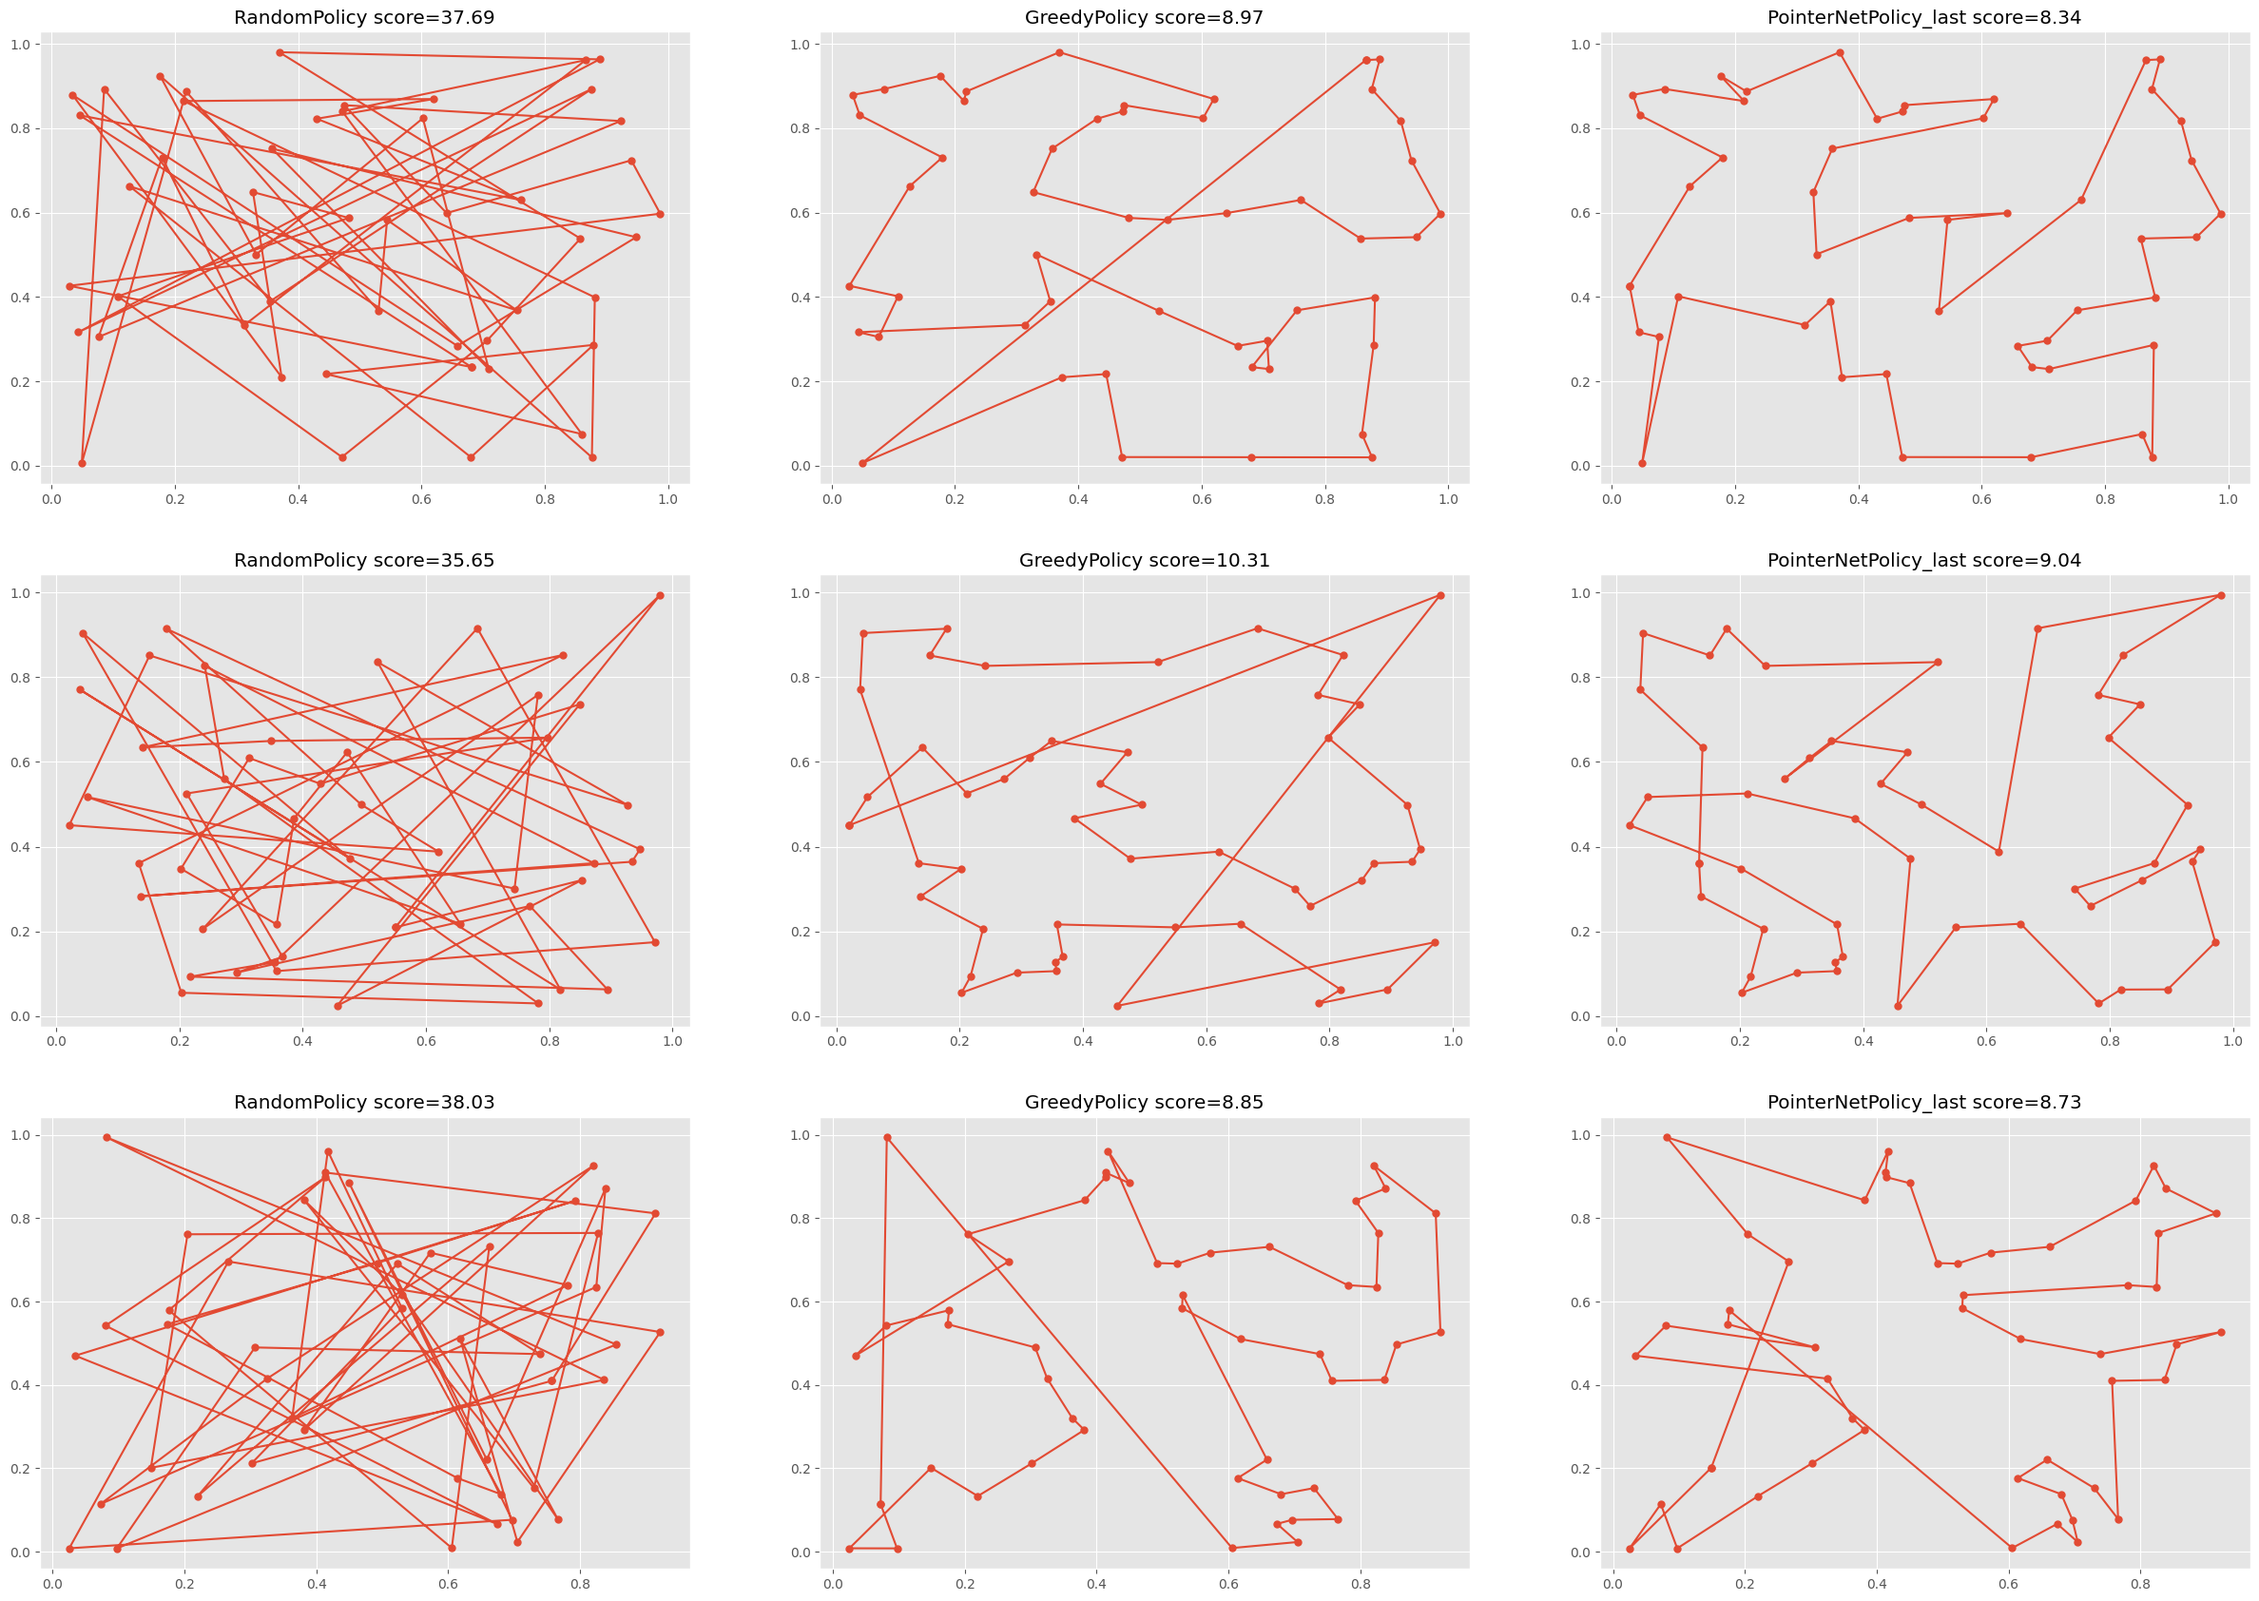
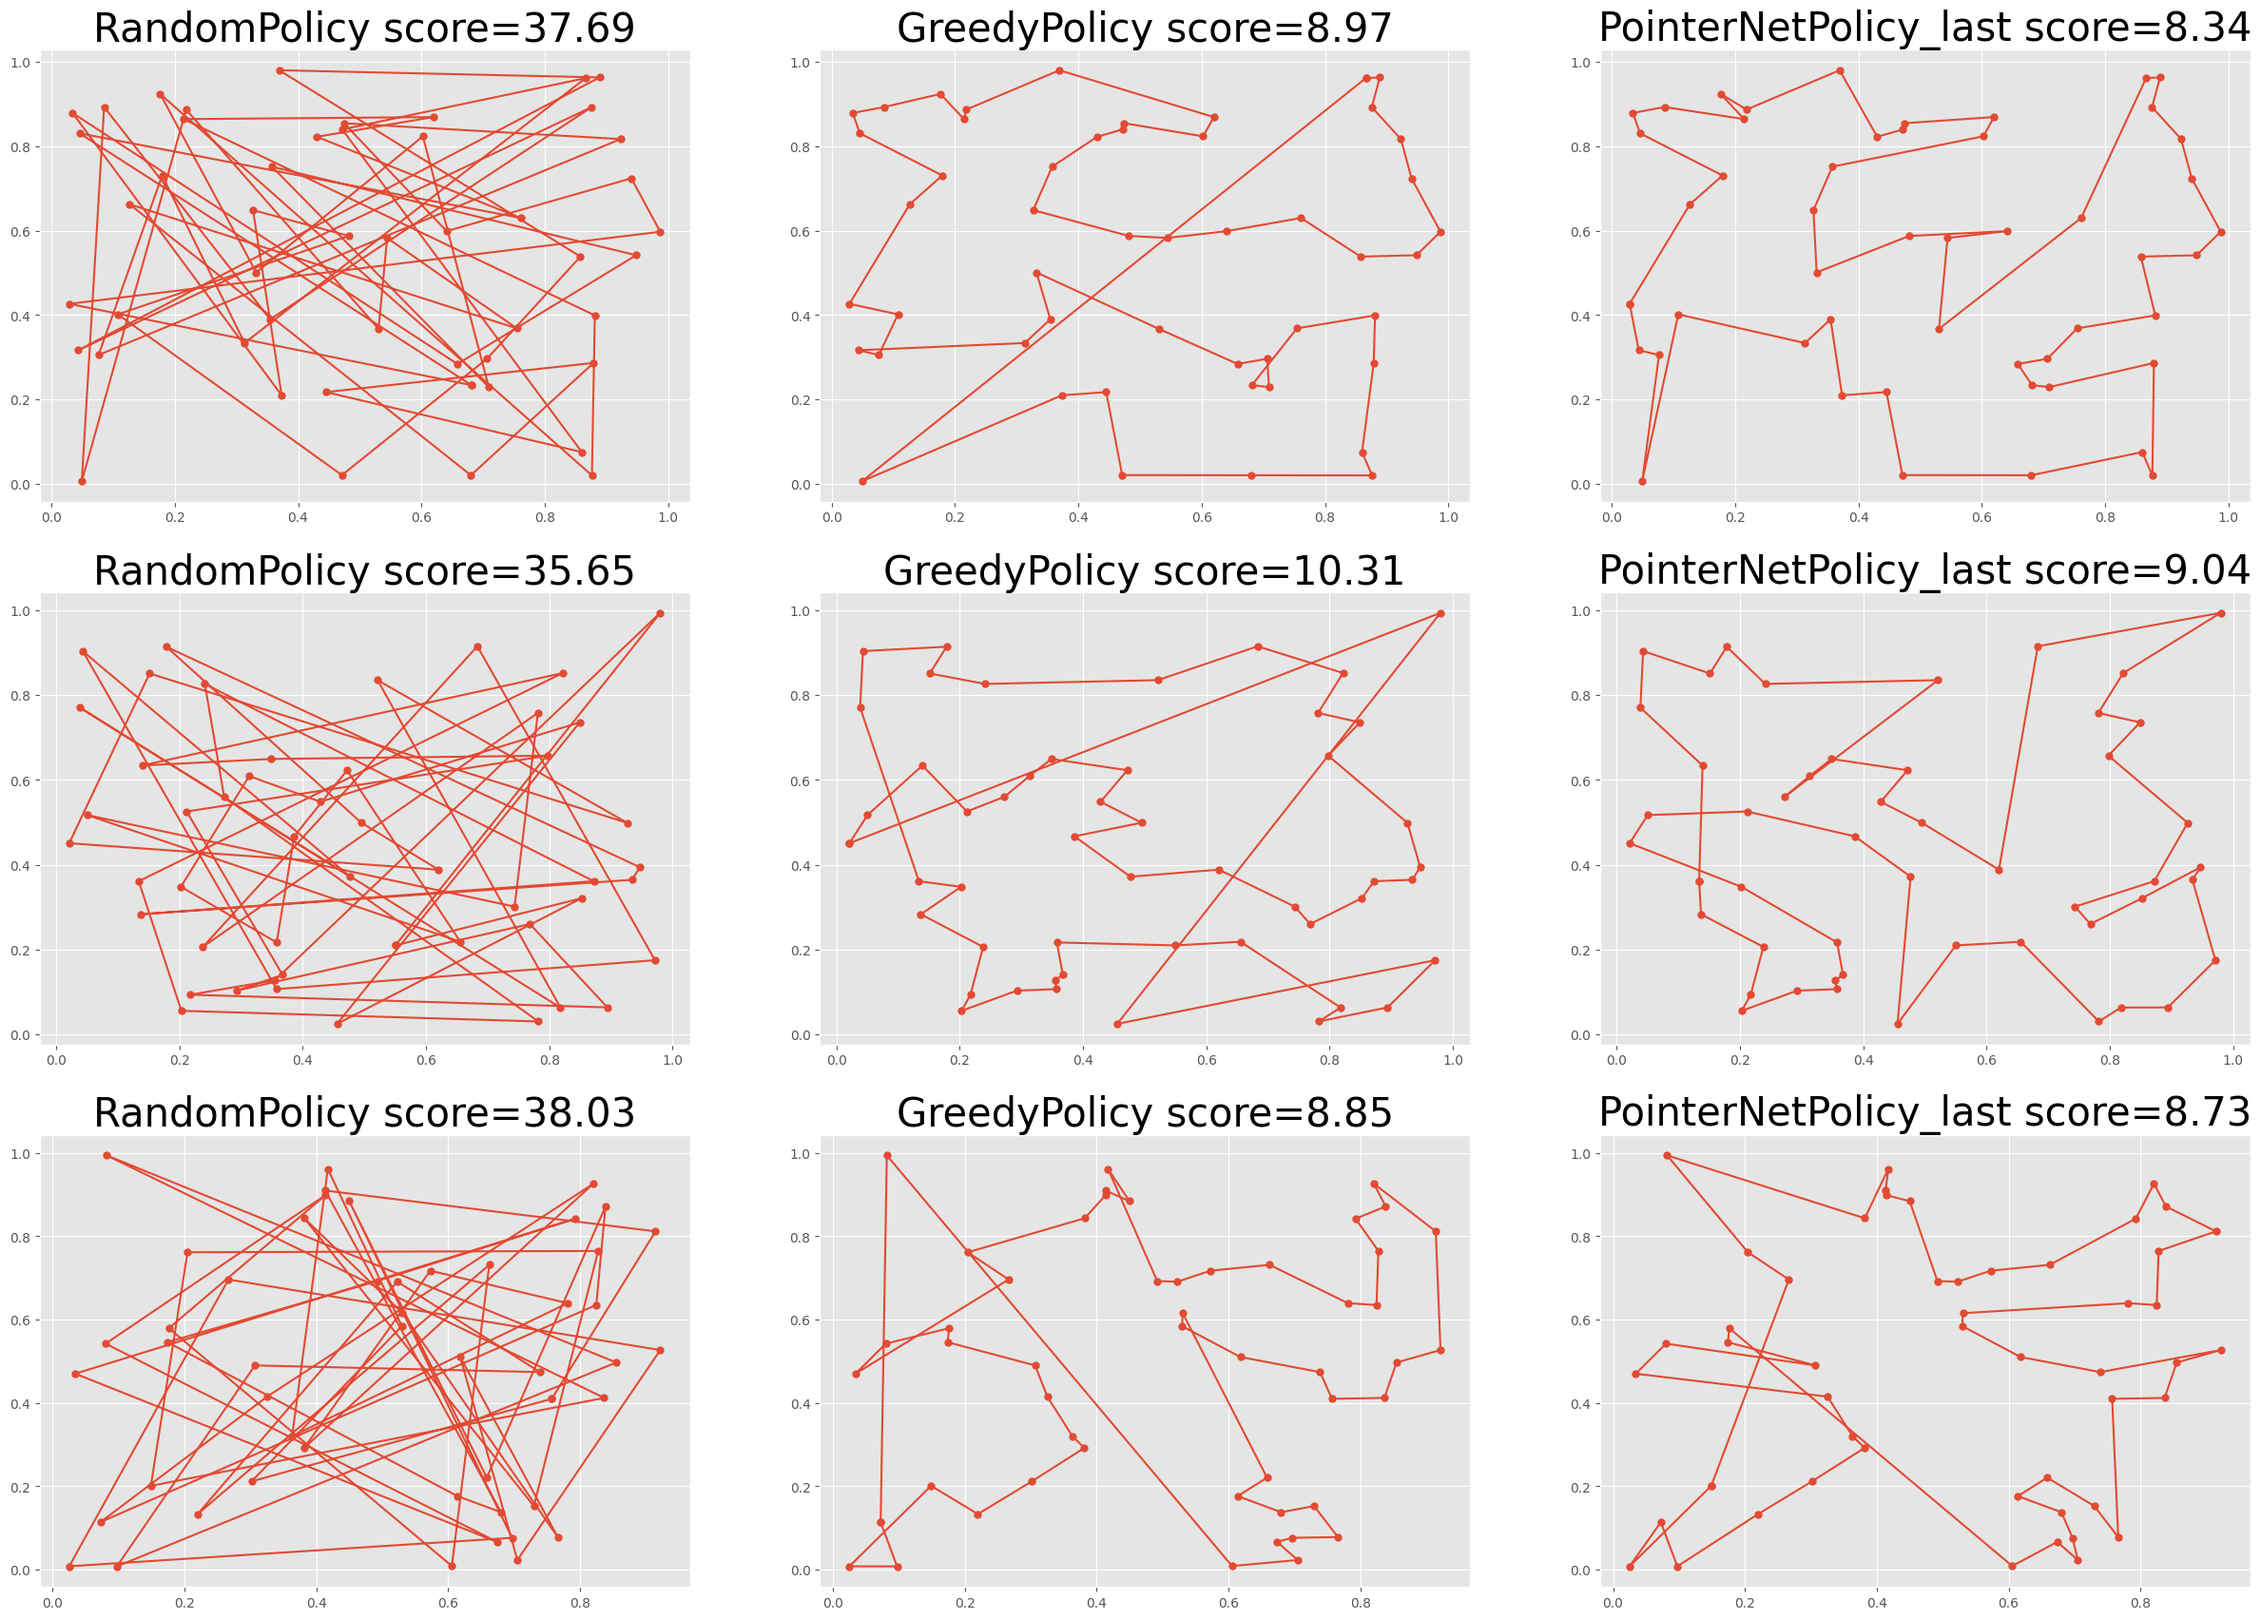
画像きれいにした

diff --git a/src/utils.py b/src/utils.py
@@ -73,7 +73,7 @@ def plot_results(
             row = np.append(sample[sample_tour, 0], sample[sample_tour, 0][0])
             col = np.append(sample[sample_tour, 1], sample[sample_tour, 1][0])
             axes[i, j].plot(row, col, marker=".", markersize=10)
-            axes[i, j].set_title(title)
+            axes[i, j].set_title(title, fontsize=30)
 
     if save_dir is not None:
         save_path = save_dir / "samples.png"
@@ -84,7 +84,9 @@ def plot_results(
     for i, result in enumerate(results):
         label = f"{result.policy_name} score={result.score.mean():.2f}"
         ax.hist(result.score, label=label, alpha=0.7)
-        ax.set_title("Score distribution")
+        ax.set_title("Score distribution", fontsize=30)
+        ax.set_ylabel("Frequency", fontsize=20)
+        ax.set_xlabel("Length of tour", fontsize=20)
         ax.legend()
 
     if save_dir is not None:
